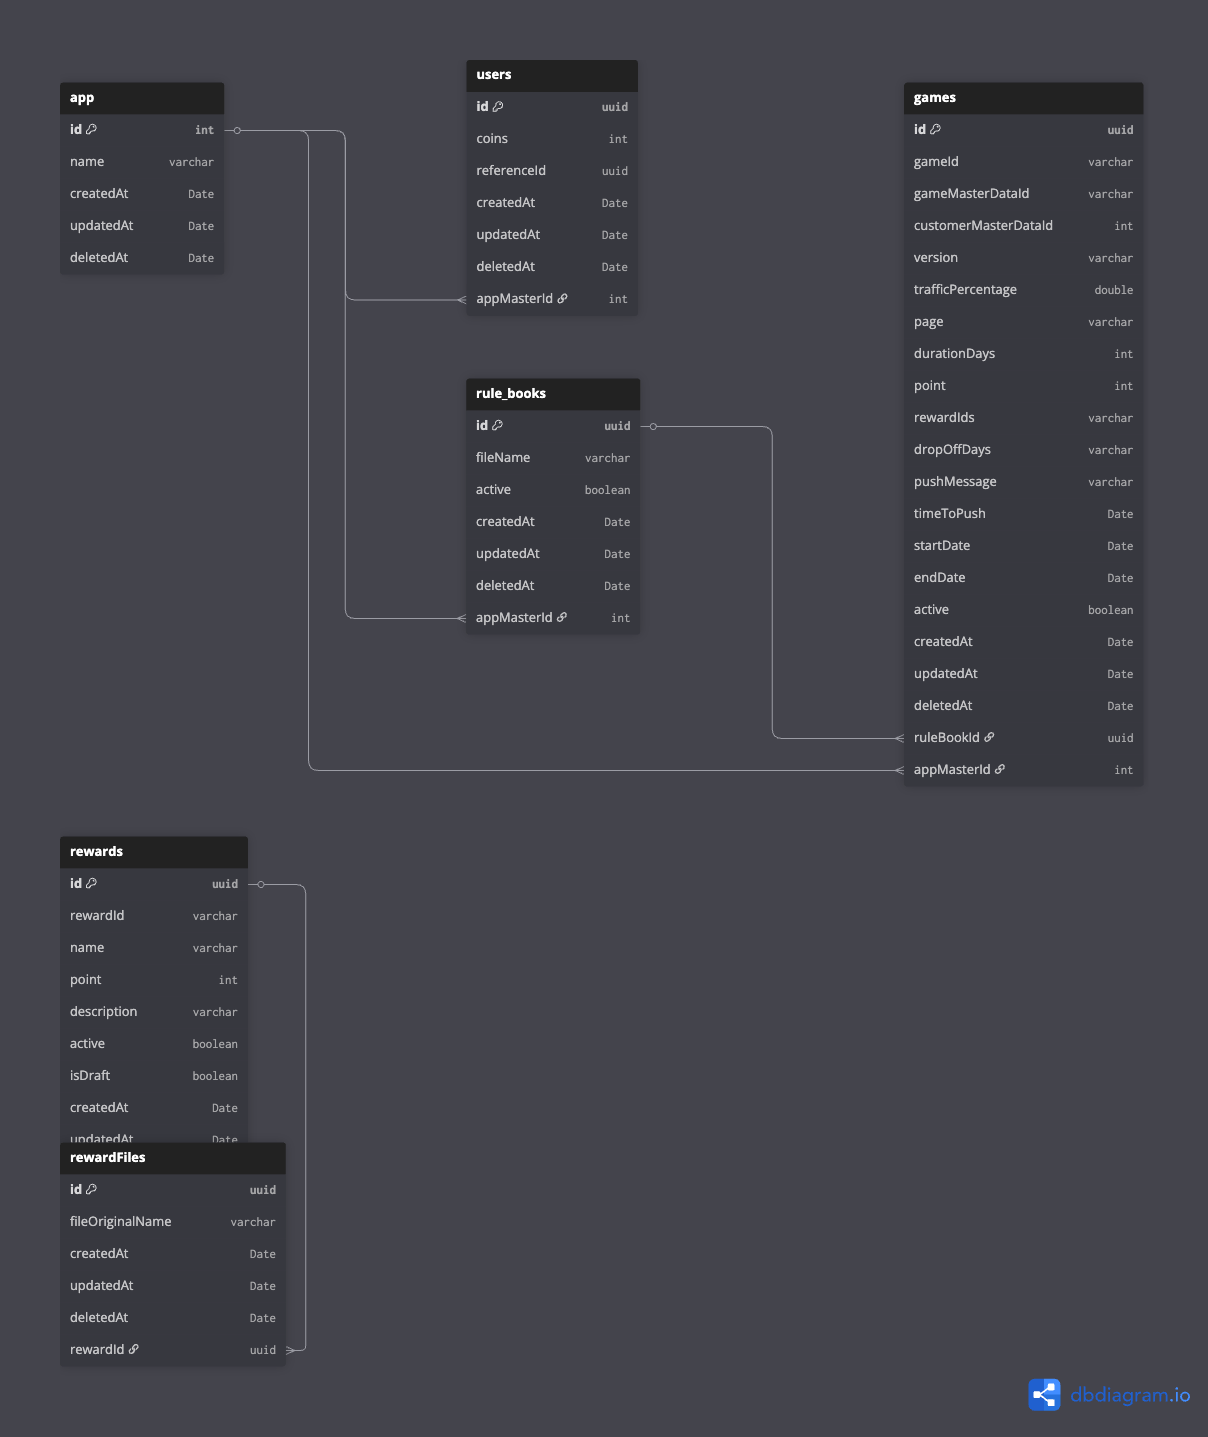
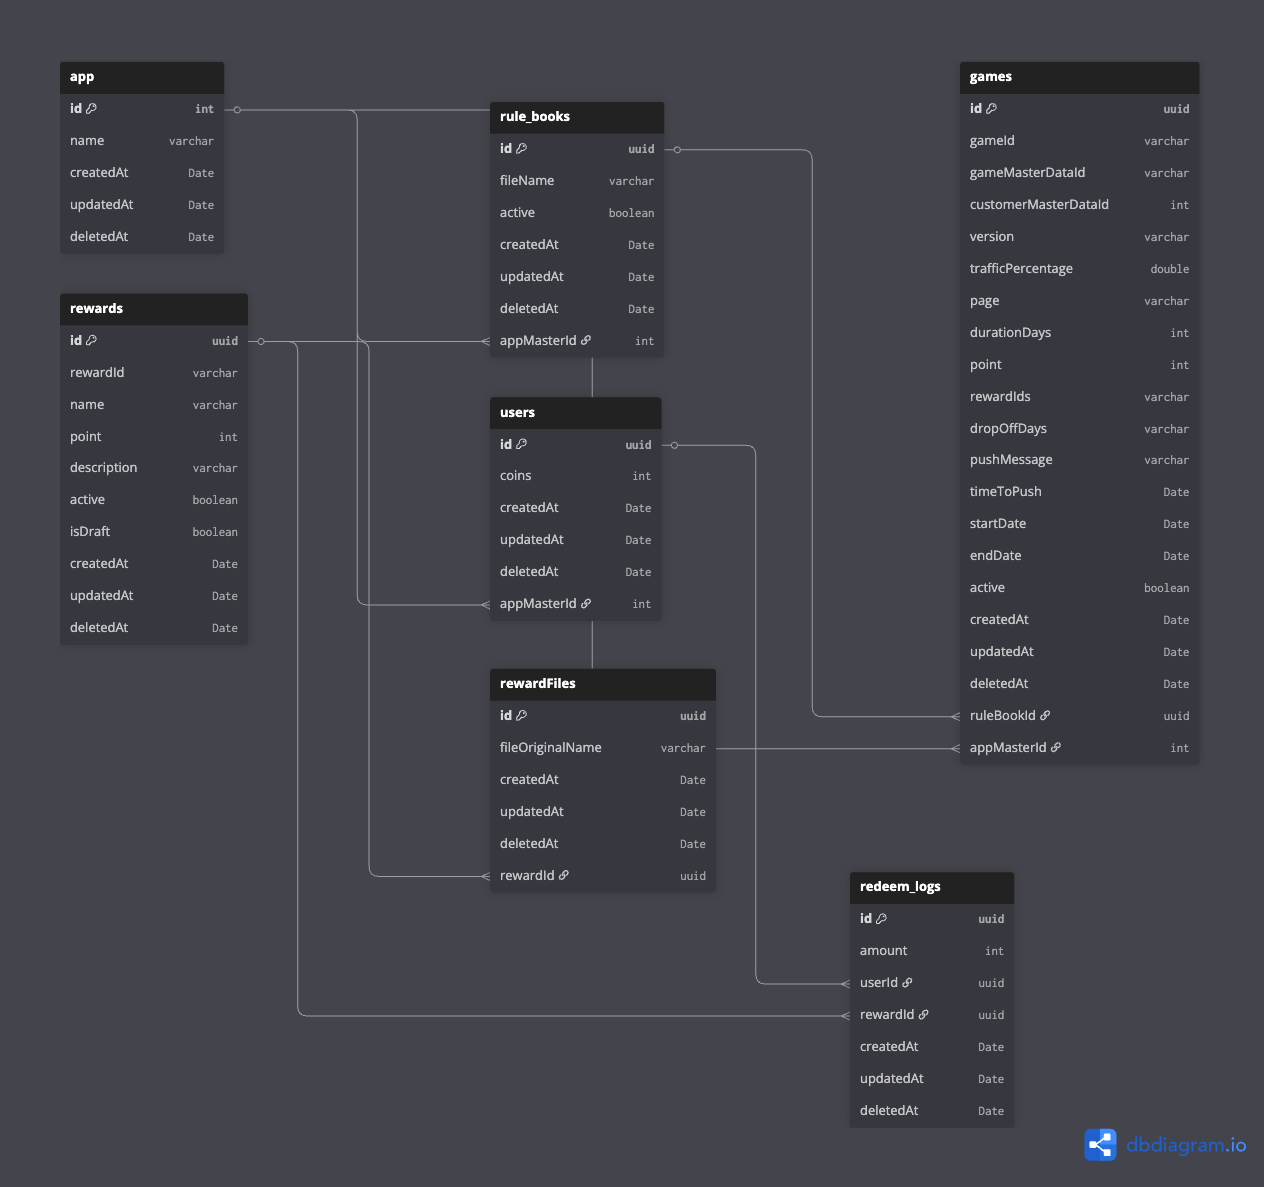
feat(user): get coin api

diff --git a/src/controllers/incentiveController.ts b/src/controllers/incentiveController.ts
@@ -1,4 +1,6 @@
+import { HttpStatusCode } from "axios";
 import { Request, Response } from "express";
+import { EUpdateCoinMethod } from "src/enums/update-coin.enum";
 import { v4 as uuidv4 } from "uuid";
 import * as XLSX from "xlsx";
 import z from "zod";
@@ -9,6 +11,8 @@ import { GameModel } from "../database/sequelize/game";
 import { RewardModel } from "../database/sequelize/reward";
 import { RewardFileModel } from "../database/sequelize/rewardFile";
 import { RuleBookModel } from "../database/sequelize/ruleBook";
+import { UserModel } from "../database/sequelize/user";
+import { incentiveService } from "../services/incentiveService";
 import { rewardService } from "../services/rewardService";
 import { getPresignedUrl } from "../utils/azure-blob";
 import { errorResponseHandler } from "../utils/errorResponseHandler";
@@ -20,6 +24,7 @@ import {
   editGameRuleSchema,
   getGameRuleSchema,
 } from "../validation/rulebook";
+import { getUserCoinSchema, updateRewardSchema } from "../validation/user";
 
 export const incentiveController = {
   uploadFile: async (req: Request, res: Response) => {
@@ -395,7 +400,7 @@ export const incentiveController = {
       const { rewardId } = params;
 
       if (!rewardId) {
-        return customResponse(res, 404, {
+        return customResponse(res, HttpStatusCode.NotFound, {
           message: `RewardID: ${rewardId} not found.`,
         });
       }
@@ -411,7 +416,7 @@ export const incentiveController = {
         ],
       });
 
-      return customResponse(res, 200, { reward: reward });
+      return customResponse(res, HttpStatusCode.Ok, { reward: reward });
     } catch (error) {
       errorResponseHandler(error, req, res);
     }
@@ -428,7 +433,7 @@ export const incentiveController = {
       });
 
       if (!reward) {
-        return customResponse(res, 404, {
+        return customResponse(res, HttpStatusCode.NotFound, {
           message: `RewardID: ${params.rewardId} not found.`,
         });
       }
@@ -439,9 +444,139 @@ export const incentiveController = {
       );
 
       await transaction.commit();
-      return customResponse(res, 201, { newActive: !reward.active });
+      return customResponse(res, HttpStatusCode.Ok, {
+        newActive: !reward.active,
+      });
     } catch (error) {
       await transaction.rollback();
+      errorResponseHandler(error, req, res);
+    }
+  },
+  getUserCoinByUserId: async (req: Request, res: Response) => {
+    try {
+      const { referenceId, appMasterId } = getUserCoinSchema.parse(req.query);
+
+      const user = await incentiveService.getUserByReferenceId(
+        referenceId,
+        appMasterId
+      );
+
+      if (!user) {
+        return customResponse(res, HttpStatusCode.NotFound, {
+          message: `userId: ${referenceId} was not found.`,
+        });
+      }
+
+      const result = {
+        userId: user.id,
+        coin: user.coin,
+        app: user.appMaster.name,
+      };
+
+      return customResponse(res, HttpStatusCode.Ok, { result });
+    } catch (error) {
+      errorResponseHandler(error, req, res);
+    }
+  },
+  updateUserCoin: async (req: Request, res: Response) => {
+    try {
+      const parsed = updateRewardSchema.parse(req.body);
+      const referenceId = req.params?.referenceId;
+
+      const { code, message } = await sequelize.transaction(
+        async (transaction) => {
+          const user = await UserModel.findOne({
+            where: {
+              referenceId,
+              appMasterId: parsed.appMasterId,
+            },
+          });
+
+          //* Increase coin
+          if (parsed.method === EUpdateCoinMethod.INCREASE) {
+            if (!user) {
+              const user = await UserModel.create(
+                {
+                  referenceId,
+                  appMasterId: parsed.appMasterId,
+                },
+                { transaction }
+              );
+
+              await UserModel.increment("coin", {
+                by: parsed.amount,
+                where: {
+                  referenceId: user.referenceId,
+                  appMasterId: user.appMasterId,
+                },
+                transaction,
+              });
+
+              return {
+                code: HttpStatusCode.Ok,
+                message: "Successfully added coins.",
+              };
+            }
+
+            await UserModel.increment("coin", {
+              by: parsed.amount,
+              where: {
+                referenceId,
+                appMasterId: parsed.appMasterId,
+              },
+              transaction,
+            });
+
+            return {
+              code: HttpStatusCode.Ok,
+              message: "Successfully added coins.",
+            };
+          }
+
+          //* Decrease coin
+          if (parsed.method === EUpdateCoinMethod.DECREASE) {
+            if (!user) {
+              return {
+                code: HttpStatusCode.InternalServerError,
+                message: "Coin deduction failed: user not found.",
+              };
+            }
+
+            if (user.coin < parsed.amount) {
+              return {
+                code: HttpStatusCode.InternalServerError,
+                message: "Not enough coins to deduct.",
+              };
+            }
+
+            await UserModel.decrement("coin", {
+              by: parsed.amount,
+              where: {
+                referenceId,
+                appMasterId: parsed.appMasterId,
+              },
+              transaction,
+            });
+          }
+
+          return {
+            code: HttpStatusCode.Ok,
+            message: "Successfully added coins.",
+          };
+        }
+      );
+
+      return customResponse(res, code, {
+        message,
+      });
+    } catch (error) {
+      errorResponseHandler(error, req, res);
+    }
+  },
+  redeemReward: async (req: Request, res: Response) => {
+    try {
+      return customResponse(res, 200, {});
+    } catch (error) {
       errorResponseHandler(error, req, res);
     }
   },

diff --git a/src/database/sequelize/user.ts b/src/database/sequelize/user.ts
@@ -1,0 +1,48 @@
+import {
+  CreationOptional,
+  DataTypes,
+  ForeignKey,
+  InferAttributes,
+  InferCreationAttributes,
+  Model,
+  NonAttribute,
+  Sequelize,
+  UUIDV4,
+} from "sequelize";
+import { AppMasterModel } from "./appMaster";
+
+export class UserModel extends Model<
+  InferAttributes<UserModel>,
+  InferCreationAttributes<UserModel>
+> {
+  declare id: CreationOptional<string>;
+  declare coin: CreationOptional<number>;
+  declare referenceId: string;
+  declare appMasterId: ForeignKey<AppMasterModel["id"]>;
+
+  declare appMaster: NonAttribute<AppMasterModel>;
+  declare updatedAt: NonAttribute<Date>;
+  declare createdAt: NonAttribute<Date>;
+  declare deletedAt: NonAttribute<Date>;
+}
+
+export function initUserModel(sequelize: Sequelize) {
+  UserModel.init(
+    {
+      id: {
+        type: DataTypes.UUID,
+        defaultValue: UUIDV4,
+        primaryKey: true,
+        allowNull: false,
+      },
+      coin: {
+        type: DataTypes.INTEGER,
+        defaultValue: 0,
+      },
+      referenceId: {
+        type: DataTypes.UUID,
+      },
+    },
+    { sequelize, paranoid: true, modelName: "user" }
+  );
+}

diff --git a/src/database/sequelize/index.ts b/src/database/sequelize/index.ts
@@ -5,11 +5,20 @@ import { GameModel, initGameModel } from "./game";
 import { initRewardModel, RewardModel } from "./reward";
 import { initRewardFileModel, RewardFileModel } from "./rewardFile";
 import { initRuleBookModel, RuleBookModel } from "./ruleBook";
+import { initUserModel, UserModel } from "./user";
 
 export const initModels = (sequelize: Sequelize) => {
   initAppMasterModel(sequelize);
   initCustomerMasterModel(sequelize);
   initRewardModel(sequelize);
+
+  //* User
+  initUserModel(sequelize);
+  AppMasterModel.hasMany(UserModel, { as: "users", foreignKey: "appMasterId" });
+  UserModel.belongsTo(AppMasterModel, {
+    as: "appMaster",
+    foreignKey: "appMasterId",
+  });
 
   initRewardFileModel(sequelize);
   RewardModel.hasMany(RewardFileModel, {

diff --git a/src/validation/user.ts b/src/validation/user.ts
@@ -1,0 +1,17 @@
+import { z } from "zod";
+import { EUpdateCoinMethod } from "../enums/update-coin.enum";
+
+export const updateRewardSchema = z.object({
+  method: z.enum(EUpdateCoinMethod),
+  amount: z.coerce.number().positive(),
+  appMasterId: z.coerce.number().positive(),
+});
+
+export const getUserCoinSchema = z.object({
+  referenceId: z.uuid(),
+  appMasterId: z.coerce.number().positive(),
+});
+
+export type TUpdateRewardSchema = z.infer<typeof updateRewardSchema>;
+
+export type TGetUserCoinSchema = z.infer<typeof getUserCoinSchema>;

diff --git a/src/services/incentiveService.ts b/src/services/incentiveService.ts
@@ -1,0 +1,12 @@
+import { AppMasterModel } from "../database/sequelize/appMaster";
+import { UserModel } from "../database/sequelize/user";
+
+export const incentiveService = {
+  getUserByReferenceId: async (referenceId: string, appMasterId: number) =>
+    await UserModel.findOne({
+      where: { referenceId, appMasterId },
+      include: [
+        { model: AppMasterModel, as: "appMaster", attributes: ["id", "name"] },
+      ],
+    }),
+};

diff --git a/src/routes/index.ts b/src/routes/index.ts
@@ -51,5 +51,13 @@ export function setupRoutes(app: Express) {
 
   router.delete("/reward", incentiveController.deleteReward);
 
+  //* Coin
+  router.get("/coin", incentiveController.getUserCoinByUserId);
+
+  router.put("/coin/:referenceId", incentiveController.updateUserCoin);
+
+  //* redeem
+  router.post("/redeem", incentiveController.redeemReward);
+
   app.use("/incentive", router);
 }

diff --git a/src/enums/update-coin.enum.ts b/src/enums/update-coin.enum.ts
@@ -1,0 +1,4 @@
+export enum EUpdateCoinMethod {
+  INCREASE = "INCREASE",
+  DECREASE = "DECREASE",
+}
